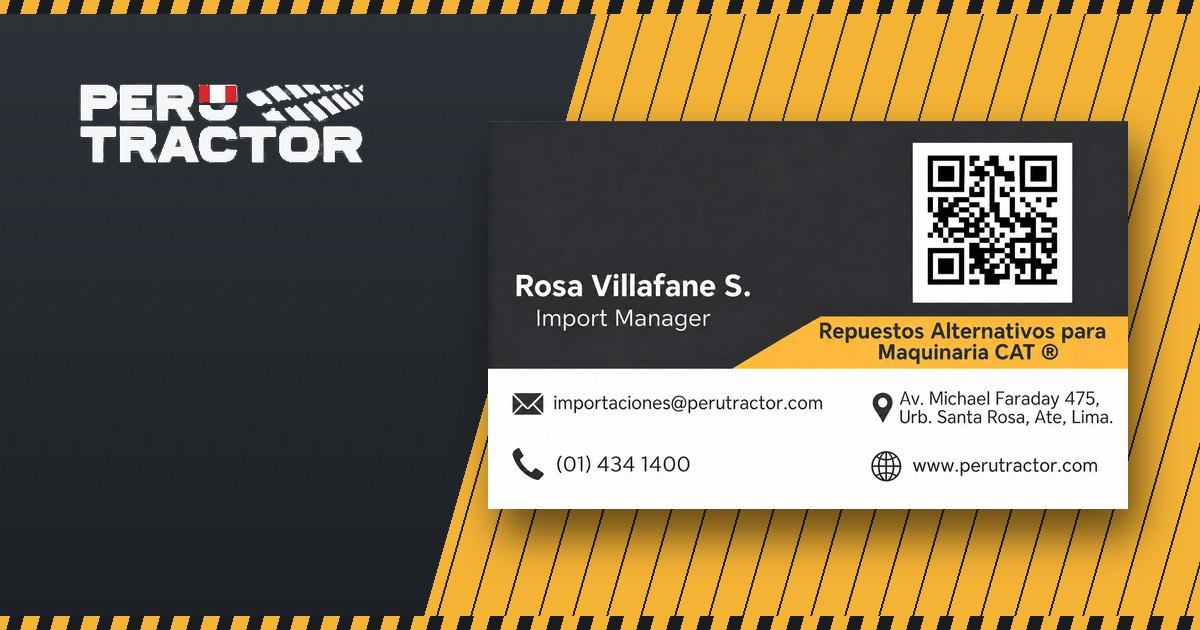
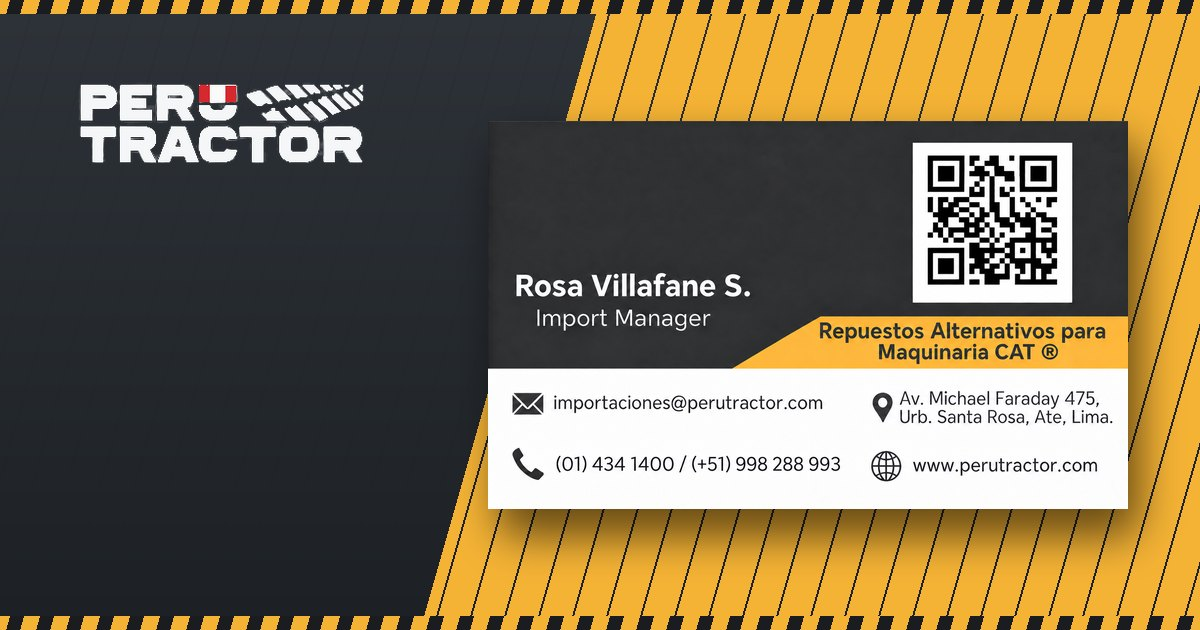
Reemplazar el anverso por la versión con los dos teléfonos
- Nuevo anverso con "(01) 434 1400 / (+51) 998 288 993", recortado el marco
  claro (4px izquierda, 2px arriba) igual que la versión anterior
- WebP regenerado (94 KB) y medidas actualizadas a 1605x975 en la CSS y en
  los atributos de la imagen, para no introducir CLS
- Texto alternativo ampliado con los dos números
- Imagen social 1200x630 regenerada con la tarjeta nueva

Claude-Session: https://claude.ai/code/session_01Y7dWXq4PJk9m51L4swwyd9

Changed region(s): [[0.4625, 0.7238, 0.7092, 0.754], [0.8017, 0.7238, 0.8942, 0.754], [0.555, 0.6333, 0.5858, 0.6635]]

diff --git a/index.html b/index.html
@@ -221,7 +221,7 @@
     clip-path:polygon(0 0,100% 0,100% 92%,0 100%);
   }
   .tarjeta{
-    position:relative;width:var(--card-w);aspect-ratio:1606/975;
+    position:relative;width:var(--card-w);aspect-ratio:1605/975;
     transform-style:preserve-3d;
     transform:rotateX(var(--rx,0deg)) rotateY(calc(var(--ry,0deg) + var(--flip,0deg)));
     transition:transform 620ms cubic-bezier(.22,.75,.2,1);
@@ -470,8 +470,8 @@
           <span class="cara frente">
             <picture>
               <source srcset="assets/tarjeta-frente.webp" type="image/webp">
-              <img src="assets/tarjeta-frente.png" width="1606" height="975" fetchpriority="high" decoding="async"
-                   alt="Anverso de la tarjeta: Rosa Villafane S., Import Manager. Correo importaciones@perutractor.com, teléfono (01) 434 1400, Av. Michael Faraday 475, Urb. Santa Rosa, Ate, Lima, www.perutractor.com.">
+              <img src="assets/tarjeta-frente.png" width="1605" height="975" fetchpriority="high" decoding="async"
+                   alt="Anverso de la tarjeta: Rosa Villafane S., Import Manager. Repuestos alternativos para maquinaria CAT. Correo importaciones@perutractor.com, teléfonos (01) 434 1400 y +51 998 288 993, Av. Michael Faraday 475, Urb. Santa Rosa, Ate, Lima, www.perutractor.com.">
             </picture>
             <span class="brillo"></span>
           </span>
